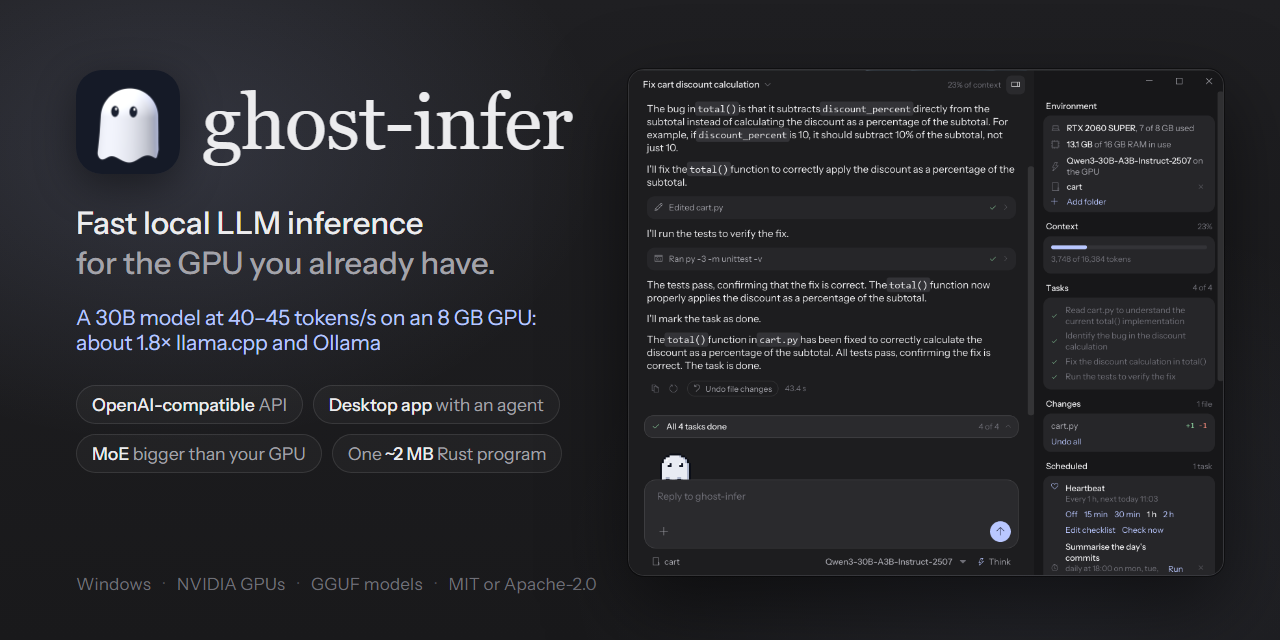
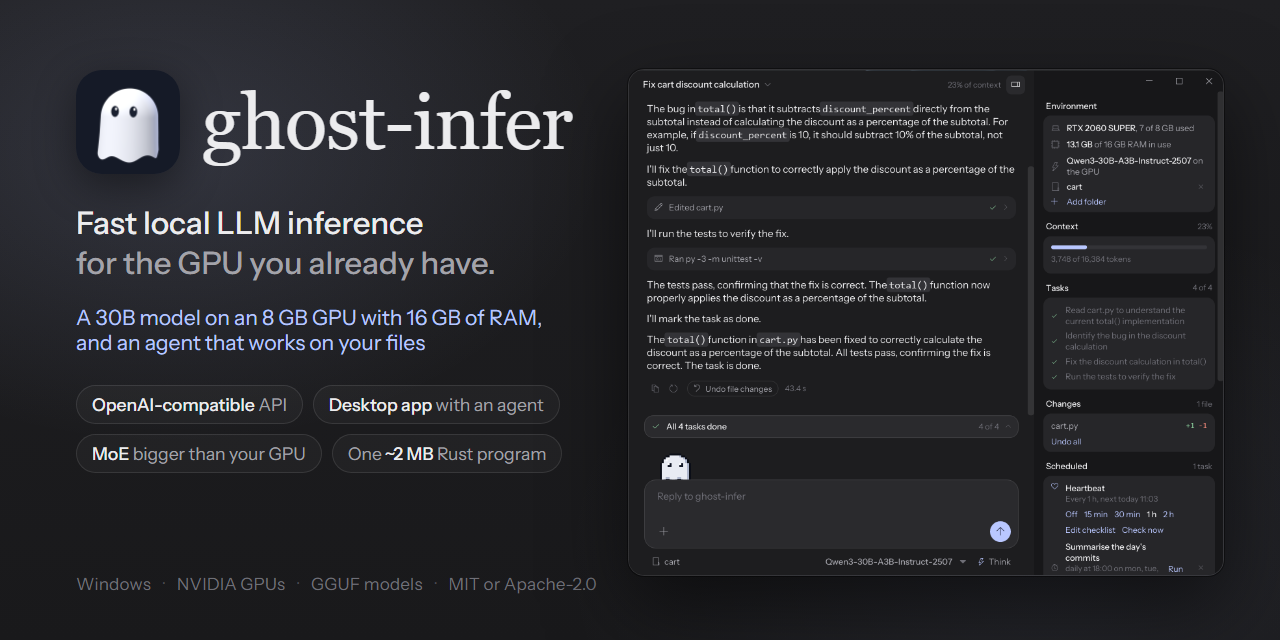
README: correct the MoE claim. On varied prompts ghost-infer runs Qwen3-30B-A3B at 22.4 tok/s (14-26), level with llama.cpp (23.7) and Ollama (21.8); the 40-45 came from bench's repeated sentence

Changed region(s): [[0.0625, 0.4688, 0.4375, 0.5625]]

diff --git a/README.md b/README.md
@@ -35,18 +35,18 @@ the same GGUF files:
 
 | Generation speed | ghost-infer | llama.cpp | Ollama |
 |---|---|---|---|
-| Qwen3-30B-A3B, 13.7 GB: bigger than the GPU | **40–45 tokens/s** | 24 tokens/s | 22–24 tokens/s |
 | Qwen3 8B, 5 GB: fits in the GPU (128-token reply) | **70.3 tokens/s** | 64.8 tokens/s | 66.0 tokens/s |
+| Qwen3-30B-A3B, 13.7 GB: bigger than the GPU (varied prompts) | 22.4 tokens/s (14–26) | **23.7 tokens/s** | 21.8 tokens/s |
 
-On a mixture-of-experts model bigger than the GPU, that is **about 1.8 times llama.cpp at its best
-setting, and Ollama**. On a model that fits in the GPU, ghost-infer is level with them: 6–8% faster on
-short replies, the same on long prompts. Details and method in [Benchmarks](#benchmarks).
+ghost-infer is level with them: 6–8% faster on short replies from a model that fits in the GPU, the same
+on long prompts, and a little behind llama.cpp's best setting on a mixture-of-experts model bigger than
+the GPU, where its speed also depends more on the text. Details and method in [Benchmarks](#benchmarks).
 
 - **One file, nothing to install.** A ~2 MB executable with two Rust dependencies (`memmap2`, `rayon`).
   No CUDA SDK, no Python, no Docker: it loads the NVIDIA driver at runtime and compiles its kernels for
   your GPU on first start.
 - **Bigger models than your GPU.** Mixture-of-experts models keep their experts in RAM and the most used
-  ones in a VRAM cache: Qwen3-30B-A3B runs at 40–45 tokens/s on an 8 GB card with 16 GB of RAM.
+  ones in a VRAM cache: Qwen3-30B-A3B runs at about 22 tokens/s on an 8 GB card with 16 GB of RAM.
 - **Drop-in server.** OpenAI-compatible `/v1/chat/completions` with streaming and tool calling, so editor
   plugins, chat apps and agent harnesses work unchanged. Switch models from the chat page or the API.
 - **Exact where it matters.** Speculative decoding gives bit-identical output to plain greedy decoding,
@@ -85,8 +85,8 @@ Measured with [GuideLLM](https://github.com/vllm-project/guidellm), vLLM's bench
 | GPU | NVIDIA GeForce RTX 2060 SUPER, 8 GB (Turing, sm_75), driver 577.00 |
 | CPU | AMD Ryzen 5 3600, 6 cores / 12 threads |
 | RAM | 16 GB DDR4-2133 (2 × 8 GB) |
-| Storage | models on a USB 3.0 external drive |
-| OS | Windows 10 Pro 22H2 (build 19045), nothing else running (12.3 GB of RAM free at the start) |
+| Storage | the 8B on a USB 3.0 external hard drive; the 30B on an NVMe SSD (part of it is read again from the disk while it runs) |
+| OS | Windows 10 Pro 22H2 (build 19045), nothing else running (12.3–12.5 GB of RAM free at the start) |
 | Engines | ghost-infer (this repo), llama.cpp b11747 (`llama-server` and `llama-bench`, CUDA 12.4), Ollama 0.40.13 |
 | Models | Qwen3 8B, Q4_K_M, 5.0 GB (a JOSIEFIED fine-tune: same architecture and size as the base model, so the same speed); Qwen3-30B-A3B-Instruct-2507, Q3_K_M, 13.7 GB |
 
@@ -132,23 +132,36 @@ generated 25% faster; llama.cpp has caught up since on models that fit in the GP
 
 ### Mixture of experts bigger than the GPU
 
-Qwen3-30B-A3B-Instruct-2507 Q3_K_M (13.7 GB) on the same 8 GB card with 16 GB of RAM. ghost-infer keeps
-attention and the router on the GPU, the experts in RAM, and the 2,365 most used experts (5.1 GB) in VRAM.
-llama.cpp runs it the way its users do: every layer on the GPU, with the experts of some layers left in
-RAM (`--n-cpu-moe`); the table shows the best of a sweep from 16 to 48 layers, which was 24. Ollama now
-fits the model the same way by itself (here the experts of 32 of the 49 layers in RAM, 5.5 GB on the GPU).
-Measured with each engine's own timing (`ghost-infer bench`, `llama-bench -fa 1`, Ollama's API with
-`num_predict` 128), tokens per second:
+Qwen3-30B-A3B-Instruct-2507 Q3_K_M (13.7 GB) on the same 8 GB card with 16 GB of RAM, read from an NVMe
+SSD. ghost-infer keeps attention and the router on the GPU, the experts in RAM, and the 2,365 most used
+experts (5.1 GB) in a VRAM cache, which takes in the experts a reply starts to use. llama.cpp runs it the
+way its users do: every layer on the GPU, with the experts of some layers left in RAM and computed on the
+CPU (`--n-cpu-moe`; a sweep from 16 to 48 layers picked 28). Ollama fits the model the same way by itself
+(here the experts of 32 of the 49 layers in RAM, 5.5 GB on the GPU).
 
-| | ghost-infer | llama.cpp b11747 (`--n-cpu-moe 24`) | Ollama 0.40.13 |
+Seven varied prompts (writing code, an explanation, a code review with 2,189 tokens of pasted code, a
+document to summarise, a chat, a word problem, SQL), each through the engine's `/v1/chat/completions`,
+streamed, greedy, 256 tokens; a warm-up round, then two measured rounds
+([`scripts/bench-moe.py`](scripts/bench-moe.py); `bench-readme.ps1 -SkipDense -Stage <folder on an SSD>`):
+
+| Generation, tokens/s | ghost-infer | llama.cpp b11747 (`--n-cpu-moe 28`) | Ollama 0.40.13 |
 |---|---|---|---|
-| Generation | **40–45** | 24 | 22–24 |
-| Prompt, 256 tokens | 211 | 33 | **309–313** |
-| Prompt, 1,024 tokens | 547 | 115 | 537–556 |
+| Median of the 14 measured replies | 22.4 | **23.7** | 21.8 |
+| Range | 13.8–25.7 | 23.5–23.8 | 19.3–22.0 |
+| Writing code / explaining / SQL | 22–24 | 24 | 22 |
+| Code review (2,189-token paste) | 22 | **24** | 19 |
+| Summarising a document | **25–26** | 24 | 20 |
+| Chat / word problem | 19 / 14 | **24** / **24** | 22 / 22 |
 
-llama.cpp reads prompts fastest with fewer experts in RAM (`--n-cpu-moe 16`: 49 and 268 tokens/s) but
-then generates at 15 tokens/s. Ollama's first request, which also loads the model, is left out of its
-prompt column.
+Reading the 2,189-token paste: ghost-infer 416–419 tokens/s, llama.cpp 411–414, Ollama 437 (its first
+read; in the measured rounds it reused that prompt from its cache, so those are left out).
+
+llama.cpp's and Ollama's speed hardly depends on the text, since each expert stays where it was put.
+ghost-infer's does: a reply that keeps to experts already in its VRAM cache runs faster than both, one that
+keeps reaching for others (here the word problem) runs slower, as experts are copied to the GPU. An earlier
+version of this table showed ghost-infer at 40–45 tokens/s; that came from `ghost-infer bench`, whose
+prompt is one sentence repeated, which keeps the same few experts busy: it is the cache's best case, not a
+real chat.
 
 ### Speculative decoding
 
